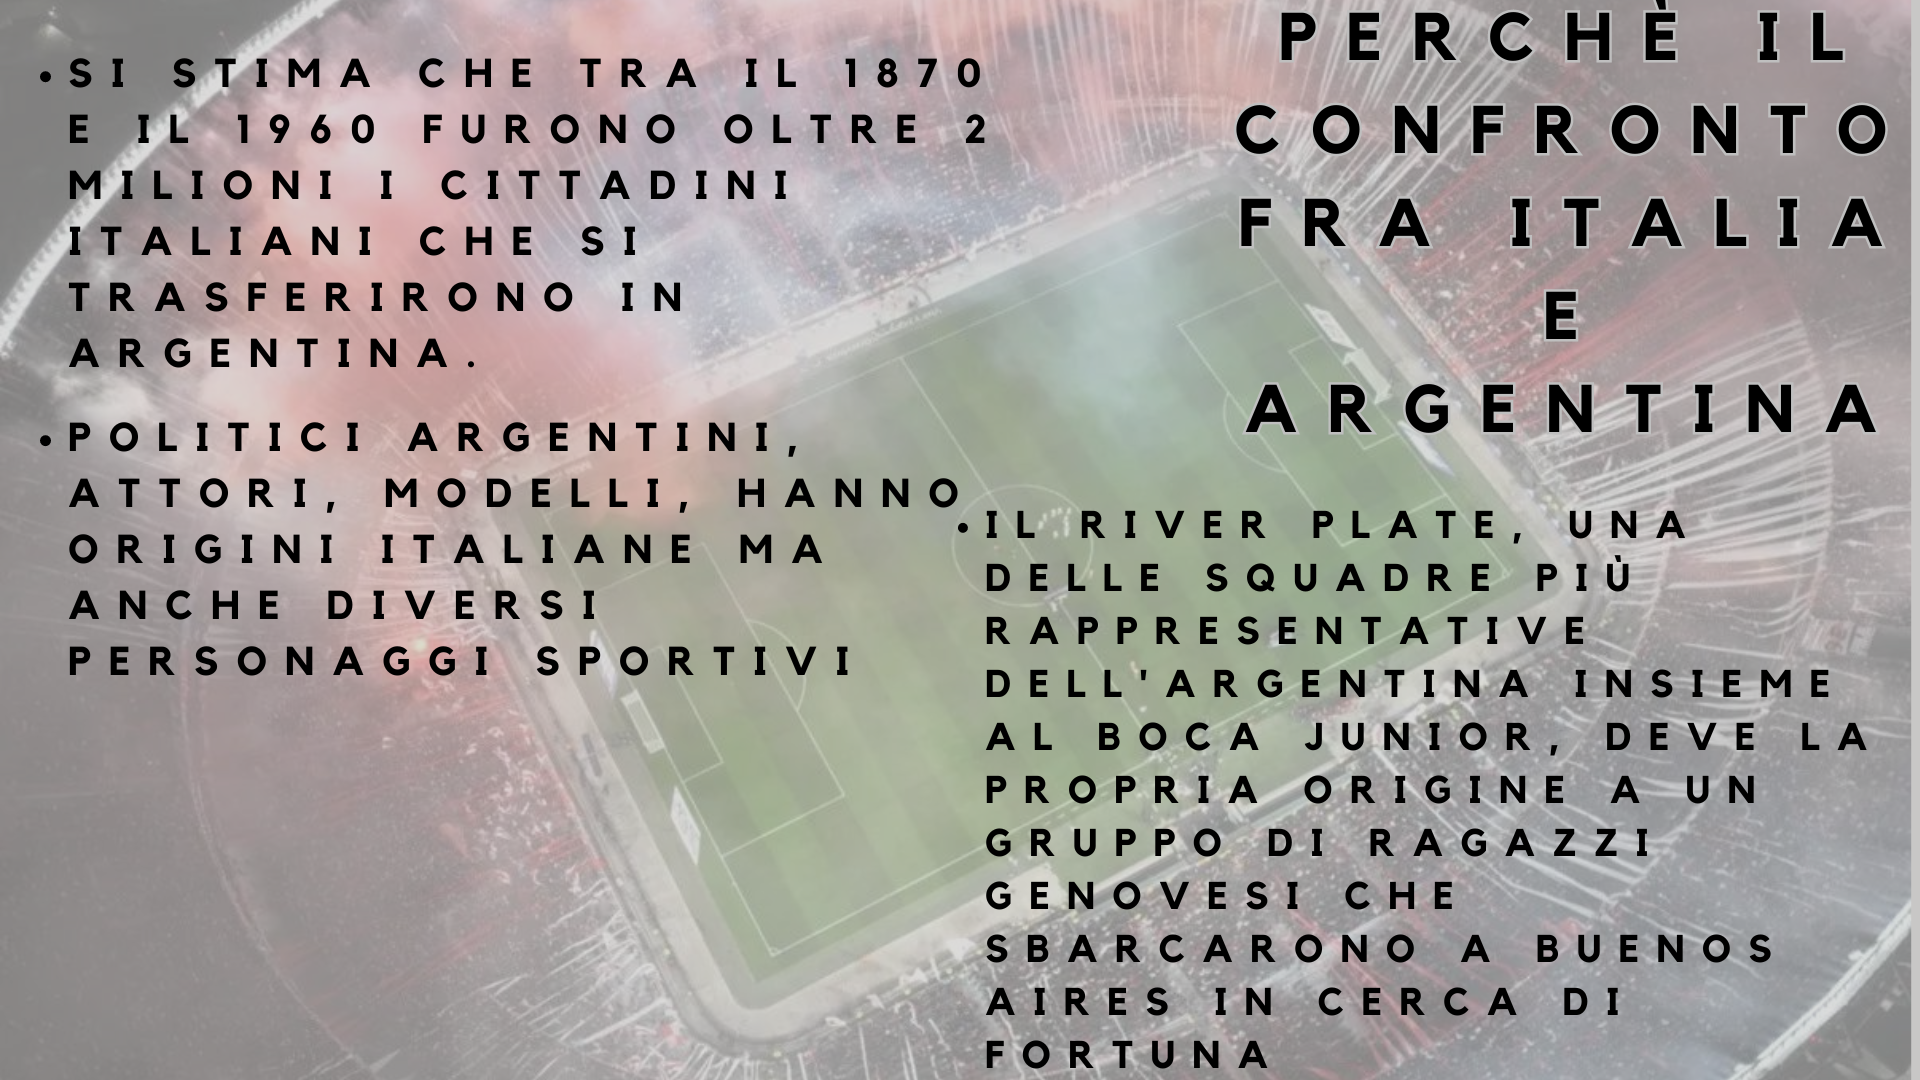
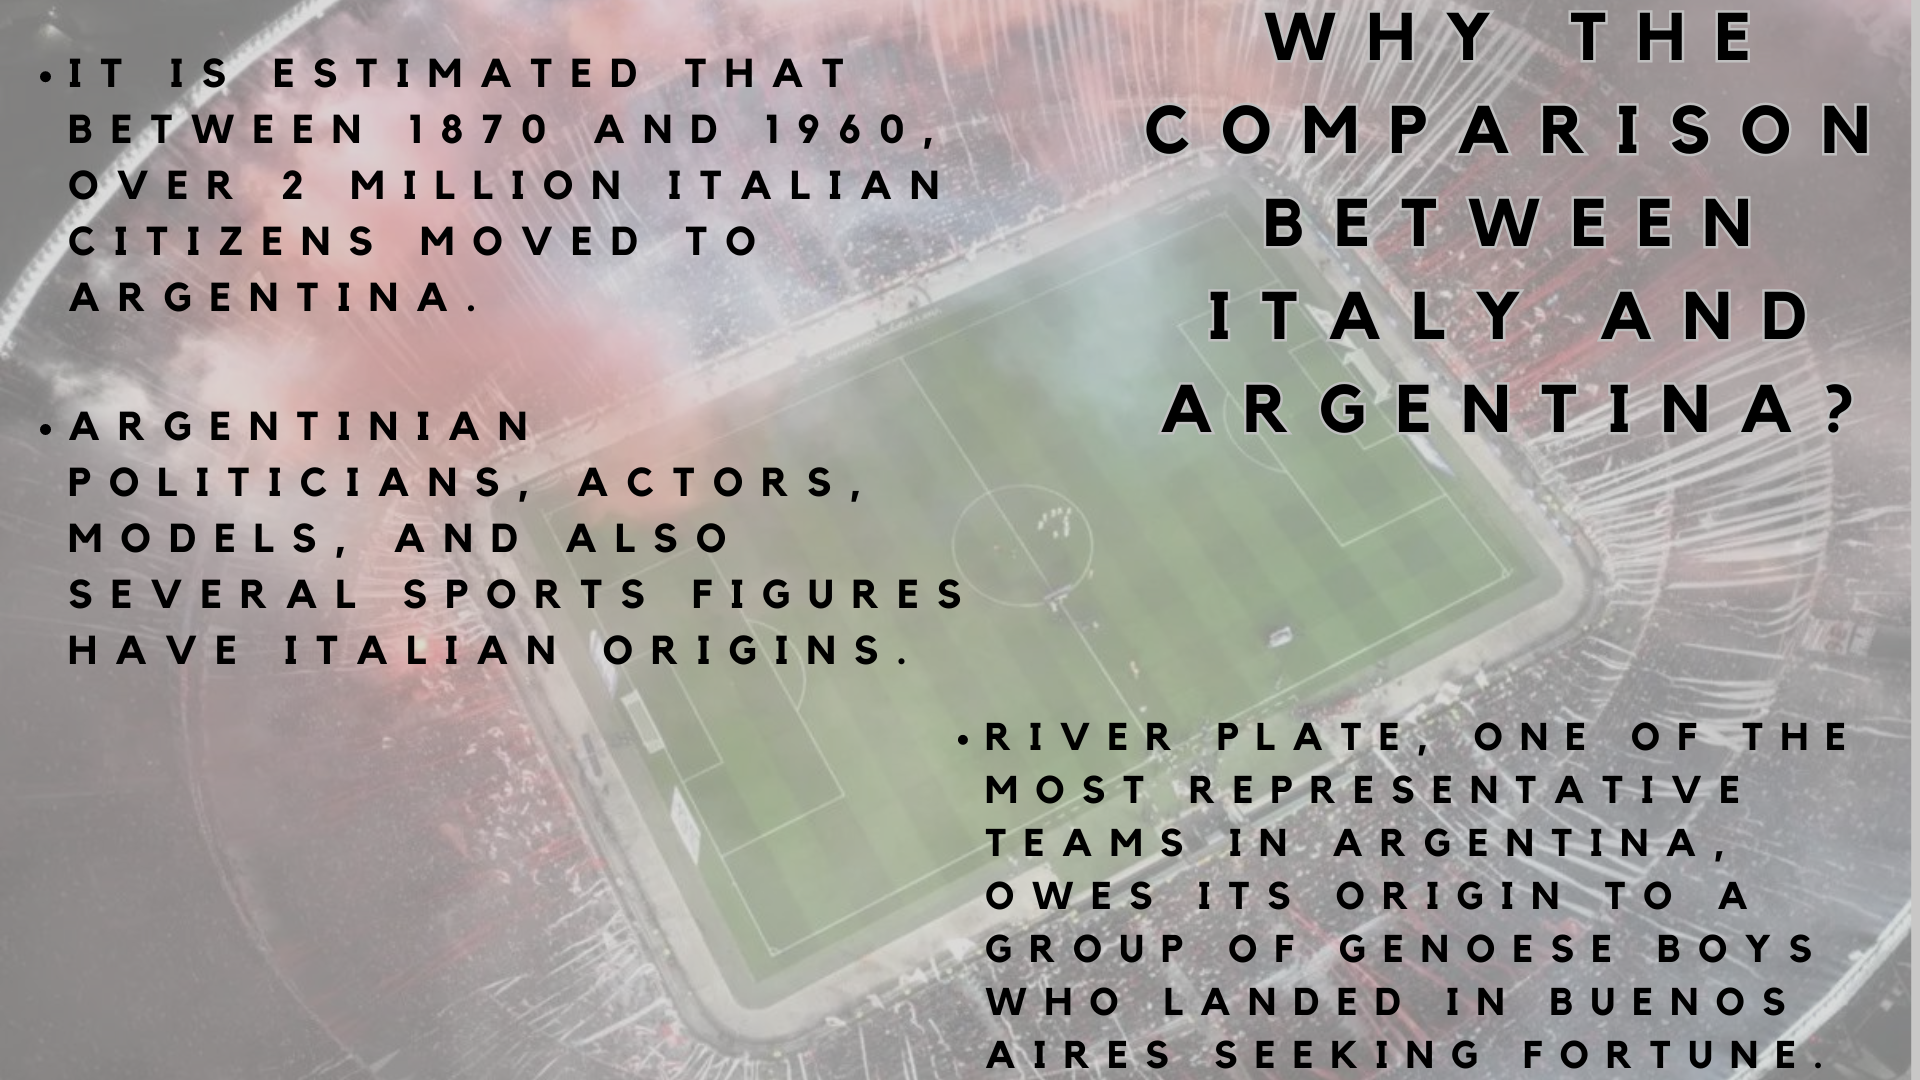
twitch 2

diff --git a/assets/charts/Correlationcountries.html b/assets/charts/Correlationcountries.html
@@ -1,0 +1,155 @@
+<html>
+    <head>
+        <meta charset="utf-8">
+        
+            <script src="lib/bindings/utils.js"></script>
+            <link rel="stylesheet" href="https://cdnjs.cloudflare.com/ajax/libs/vis-network/9.1.2/dist/dist/vis-network.min.css" integrity="sha512-WgxfT5LWjfszlPHXRmBWHkV2eceiWTOBvrKCNbdgDYTHrT2AeLCGbF4sZlZw3UMN3WtL0tGUoIAKsu8mllg/XA==" crossorigin="anonymous" referrerpolicy="no-referrer" />
+            <script src="https://cdnjs.cloudflare.com/ajax/libs/vis-network/9.1.2/dist/vis-network.min.js" integrity="sha512-LnvoEWDFrqGHlHmDD2101OrLcbsfkrzoSpvtSQtxK3RMnRV0eOkhhBN2dXHKRrUU8p2DGRTk35n4O8nWSVe1mQ==" crossorigin="anonymous" referrerpolicy="no-referrer"></script>
+            
+        
+<center>
+<h1></h1>
+</center>
+
+<!-- <link rel="stylesheet" href="../node_modules/vis/dist/vis.min.css" type="text/css" />
+<script type="text/javascript" src="../node_modules/vis/dist/vis.js"> </script>-->
+        <link
+          href="https://cdn.jsdelivr.net/npm/bootstrap@5.0.0-beta3/dist/css/bootstrap.min.css"
+          rel="stylesheet"
+          integrity="sha384-eOJMYsd53ii+scO/bJGFsiCZc+5NDVN2yr8+0RDqr0Ql0h+rP48ckxlpbzKgwra6"
+          crossorigin="anonymous"
+        />
+        <script
+          src="https://cdn.jsdelivr.net/npm/bootstrap@5.0.0-beta3/dist/js/bootstrap.bundle.min.js"
+          integrity="sha384-JEW9xMcG8R+pH31jmWH6WWP0WintQrMb4s7ZOdauHnUtxwoG2vI5DkLtS3qm9Ekf"
+          crossorigin="anonymous"
+        ></script>
+
+
+        <center>
+          <h1></h1>
+        </center>
+        <style type="text/css">
+
+             #mynetwork {
+                 width: 100%;
+                 height: 400px;
+                 background-color: #bfbfbf;
+                 border: 1px solid lightgray;
+                 position: relative;
+                 float: left;
+             }
+
+             
+
+             
+
+             
+        </style>
+    </head>
+
+
+    <body>
+        <div class="card" style="width: 100%">
+            
+            
+            <div id="mynetwork" class="card-body"></div>
+        </div>
+
+        
+        
+
+        <script type="text/javascript">
+
+              // initialize global variables.
+              var edges;
+              var nodes;
+              var allNodes;
+              var allEdges;
+              var nodeColors;
+              var originalNodes;
+              var network;
+              var container;
+              var options, data;
+              var filter = {
+                  item : '',
+                  property : '',
+                  value : []
+              };
+
+              
+
+              
+
+              // This method is responsible for drawing the graph, returns the drawn network
+              function drawGraph() {
+                  var container = document.getElementById('mynetwork');
+
+                  
+
+                  // parsing and collecting nodes and edges from the python
+                  nodes = new vis.DataSet([{"color": "008C45", "id": "tvplay", "label": "tvplay", "shape": "dot", "size": 10.80631753948462}, {"color": "008C45", "id": "ACMilan", "label": "ACMilan", "shape": "dot", "size": 10.818307905686545}, {"color": "008C45", "id": "fantacalcio", "label": "fantacalcio", "shape": "dot", "size": 10.79734219269103}, {"color": "008C45", "id": "controcalcio", "label": "controcalcio", "shape": "dot", "size": 10.785398230088495}, {"color": "008C45", "id": "DajeAleOfficial", "label": "DajeAleOfficial", "shape": "dot", "size": 10.80631753948462}, {"color": "008C45", "id": "inter", "label": "inter", "shape": "dot", "size": 10.812309398392015}, {"color": "008C45", "id": "AJGtv", "label": "AJGtv", "shape": "dot", "size": 10.80631753948462}, {"color": "008C45", "id": "houseofcalcio", "label": "houseofcalcio", "shape": "dot", "size": 10.79734219269103}, {"color": "008C45", "id": "Juventibus", "label": "Juventibus", "shape": "dot", "size": 10.785398230088495}, {"color": "008C45", "id": "AssodiRoma", "label": "AssodiRoma", "shape": "dot", "size": 10.76158940397351}, {"color": "008C45", "id": "teladoiotokyo.json", "label": "teladoiotokyo.json", "shape": "dot", "size": 10.812309398392015}, {"color": "#6CACE4", "id": "lacobra", "label": "lacobra", "shape": "dot", "size": 10.821309655937847}, {"color": "008C45", "id": "davo", "label": "davo", "shape": "dot", "size": 0.8379888268156424}, {"color": "008C45", "id": "OCW_Sport", "label": "OCW_Sport", "shape": "dot", "size": 10.76158940397351}]);
+                  edges = new vis.DataSet([{"from": "tvplay", "label": 2, "to": "ACMilan"}, {"from": "tvplay", "label": 2, "to": "fantacalcio"}, {"from": "tvplay", "label": 24, "to": "controcalcio"}, {"from": "tvplay", "label": 33, "to": "DajeAleOfficial"}, {"from": "tvplay", "label": 1, "to": "inter"}, {"from": "tvplay", "label": 4, "to": "AJGtv"}, {"from": "tvplay", "label": 1, "to": "houseofcalcio"}, {"from": "tvplay", "label": 4, "to": "Juventibus"}, {"from": "tvplay", "label": 35, "to": "AssodiRoma"}, {"from": "tvplay", "label": 7, "to": "teladoiotokyo.json"}, {"from": "tvplay", "label": 100, "to": "OCW_Sport"}, {"from": "ACMilan", "label": 4, "to": "controcalcio"}, {"from": "ACMilan", "label": 2, "to": "DajeAleOfficial"}, {"from": "ACMilan", "label": 6, "to": "AssodiRoma"}, {"from": "ACMilan", "label": 1, "to": "teladoiotokyo.json"}, {"from": "ACMilan", "label": 1, "to": "lacobra"}, {"from": "ACMilan", "label": 21, "to": "OCW_Sport"}, {"from": "fantacalcio", "label": 170, "to": "controcalcio"}, {"from": "fantacalcio", "label": 2, "to": "DajeAleOfficial"}, {"from": "fantacalcio", "label": 2, "to": "AJGtv"}, {"from": "fantacalcio", "label": 2, "to": "Juventibus"}, {"from": "fantacalcio", "label": 3, "to": "AssodiRoma"}, {"from": "fantacalcio", "label": 1, "to": "teladoiotokyo.json"}, {"from": "fantacalcio", "label": 19, "to": "OCW_Sport"}, {"from": "controcalcio", "label": 92, "to": "DajeAleOfficial"}, {"from": "controcalcio", "label": 2, "to": "inter"}, {"from": "controcalcio", "label": 9, "to": "AJGtv"}, {"from": "controcalcio", "label": 4, "to": "Juventibus"}, {"from": "controcalcio", "label": 152, "to": "AssodiRoma"}, {"from": "controcalcio", "label": 6, "to": "teladoiotokyo.json"}, {"from": "controcalcio", "label": 1, "to": "lacobra"}, {"from": "controcalcio", "label": 371, "to": "OCW_Sport"}, {"from": "DajeAleOfficial", "label": 2, "to": "AJGtv"}, {"from": "DajeAleOfficial", "label": 3, "to": "Juventibus"}, {"from": "DajeAleOfficial", "label": 360, "to": "AssodiRoma"}, {"from": "DajeAleOfficial", "label": 9, "to": "teladoiotokyo.json"}, {"from": "DajeAleOfficial", "label": 1, "to": "lacobra"}, {"from": "DajeAleOfficial", "label": 296, "to": "OCW_Sport"}, {"from": "inter", "label": 2, "to": "AJGtv"}, {"from": "inter", "label": 3, "to": "AssodiRoma"}, {"from": "inter", "label": 1, "to": "lacobra"}, {"from": "inter", "label": 16, "to": "OCW_Sport"}, {"from": "AJGtv", "label": 1, "to": "houseofcalcio"}, {"from": "AJGtv", "label": 10, "to": "Juventibus"}, {"from": "AJGtv", "label": 6, "to": "AssodiRoma"}, {"from": "AJGtv", "label": 1, "to": "teladoiotokyo.json"}, {"from": "AJGtv", "label": 70, "to": "OCW_Sport"}, {"from": "houseofcalcio", "label": 1, "to": "OCW_Sport"}, {"from": "Juventibus", "label": 3, "to": "AssodiRoma"}, {"from": "Juventibus", "label": 1, "to": "teladoiotokyo.json"}, {"from": "Juventibus", "label": 24, "to": "OCW_Sport"}, {"from": "AssodiRoma", "label": 12, "to": "teladoiotokyo.json"}, {"from": "AssodiRoma", "label": 2, "to": "lacobra"}, {"from": "AssodiRoma", "label": 665, "to": "OCW_Sport"}, {"from": "teladoiotokyo.json", "label": 17, "to": "OCW_Sport"}, {"from": "lacobra", "label": 3578, "to": "davo"}, {"from": "lacobra", "label": 6, "to": "OCW_Sport"}]);
+
+                  nodeColors = {};
+                  allNodes = nodes.get({ returnType: "Object" });
+                  for (nodeId in allNodes) {
+                    nodeColors[nodeId] = allNodes[nodeId].color;
+                  }
+                  allEdges = edges.get({ returnType: "Object" });
+                  // adding nodes and edges to the graph
+                  data = {nodes: nodes, edges: edges};
+
+                  var options = {
+    "configure": {
+        "enabled": false
+    },
+    "edges": {
+        "color": {
+            "inherit": true
+        },
+        "smooth": {
+            "enabled": true,
+            "type": "dynamic"
+        }
+    },
+    "interaction": {
+        "dragNodes": true,
+        "hideEdgesOnDrag": false,
+        "hideNodesOnDrag": false
+    },
+    "physics": {
+        "enabled": true,
+        "stabilization": {
+            "enabled": true,
+            "fit": true,
+            "iterations": 1000,
+            "onlyDynamicEdges": false,
+            "updateInterval": 50
+        }
+    }
+};
+
+                  
+
+
+                  
+
+                  network = new vis.Network(container, data, options);
+
+                  
+
+                  
+
+                  
+
+
+                  
+
+                  return network;
+
+              }
+              drawGraph();
+        </script>
+    </body>
+</html>

diff --git a/_pages/twitchsesion.md b/_pages/twitchsesion.md
@@ -46,18 +46,65 @@ With its 5 billion fans around the world (FIFA 2021), football has become a true
 
 Even if we want to explore what happens in each club, country, and continent, limiting our initial search to two cases, Italy 🇮🇹 and Argentina 🇦🇷, is pertinent.
 <br>Not only do we love ❤ these countries' football clubs, but they are nations that share a common history despite being separated by the ocean. 
+
+
+<div class="container mt-3">
+    <div class="row justify-content-center">
+        <div class="col-auto">
+            {% capture whyArgIT %}
+            {% include_relative snippets/whyArgIT.md %}
+            {% endcapture %}
+            {% include modal-component.html title="Why Italy and Argentina" content=whyArgIT id="whyArgIT" size="xl" %}
+        </div>
+    </div>
+</div>
+
 <br>Italians and Argentinians are passionate about football 
-
-{% capture whyArgIT %}
-{% include_relative snippets/whyArgIT.md %}
-{% endcapture %}
-
-{% include modal-component.html title="Why Italy and Argentina" content=whyArgIT id="whyArgIT" size="xl" %}
-
-Both countries also share common historical roots, and there are numerous examples of players who connect both football realities!
-<br>Although they share a similar football history, Twitch dynamics are not the same in both countries, and we also found it interesting to capture this difference.
-- In Argentina, we have focus  in two main channels with the most views in average, between the both they have a stable **87.000 users**; in Italy, there are many more, so we used Twitchmetrics to select the most popular based on the number of views!
+<br>Both countries also share common historical roots, and there are numerous examples of players who connect both football realities!
+<br>Although they share a similar football history, Twitch dynamics are not the same in both countries, and we also found it interesting to capture this difference.<br>
+**_In Argentina, we have focus  in two main channels with the most views in average, between the both they have a stable 87.000 users; in Italy, there are many more, so we used Twitchmetrics to select the most popular based on the number of views!_**
+# QUA SI METTENO LE STATISTICHE CANALI?
   - ![BAR CHART](path/to/bar-chart.png)
-- Although the Atlantic geographically separates these two countries, digitality reduces this natural border; thereby, we could see a budding demonstration of our thesis! Football generates a relationship because Italians and Argentines actively participate in channels that do not limit their geographical borders.
-  - ![GRAFICO](path/to/grafico.png)
-- To explore whether our intuition was true in this "digital pub", Twitch, we decided to perform two analyses: sentiment analysis and social network analysis.
+
+<div class="d-flex align-items-center my-4">
+  <hr class="flex-grow-1">
+  <img src="{{ '/assets/images/separator.png' | relative_url }}" alt="Football" style="width: 110px; height: 50px; margin: 0 10px;">
+  <hr class="flex-grow-1">
+</div>
+
+Although the Atlantic geographically separates these two countries, digitally world reduces this natural border; thereby, we could see a budding demonstration of our thesis!.
+<div class="container mt-3">
+    <div class="row justify-content-center">
+        <div class="col-auto">
+            <img src="{{ '/assets/images/distance.png' | relative_url }}" alt="Football" style="width: 715px; height: 405px; margin: 0 10px;">
+        </div>
+    </div>
+</div>
+<br>
+
+#### Football generates a relationship because Italians and Argentines actively participate in channels that do not limit their geographical borders.<br>
+ - this is how are channels interact with each other
+<div class="graph-container mt-1">
+    <iframe src="{{ '/assets/charts/Correlationcountries.html' | relative_url }}" width="100%" height="400px" frameborder="0" allowfullscreen></iframe>
+</div>
+ - In blue Argentinian channels
+ - In green Italian channels
+
+<div class="d-flex align-items-center my-4">
+  <hr class="flex-grow-1">
+  <img src="{{ '/assets/images/separator.png' | relative_url }}" alt="Football" style="width: 110px; height: 50px; margin: 0 10px;">
+  <hr class="flex-grow-1">
+</div>
+
+### To explore whether our intuition was true in this "digital pub", Twitch, we decided to perform two analyses: sentiment analysis and social network analysis.
+<br>
+Keep reading our story by clicking in the button below or either go to **SENTIMENTS AND EMOTIONS'** section in the navigation bar.
+
+<div class="container mt-3">
+    <div class="row justify-content-center">
+        <div class="col-auto">
+            <!-- Botón que redirige a otra sección del sitio -->
+            <a href="#next-section" class="btn btn-primary">SENTIMENTS & EMOTIONS</a>
+        </div>
+    </div>
+</div>

diff --git a/_pages/snippets/whyArgIT.md b/_pages/snippets/whyArgIT.md
@@ -1,2 +1,2 @@
 
-<img src="{{ '/assets/images/whyargit.png' | relative_url }}" alt="" style="width: 1320px; height: 720px; margin: 10 0px;">
+<img src="{{ '/assets/images/whyargit.png' | relative_url }}" alt="" style="width: 1320px; height: 742px; margin: 10 0px;">
